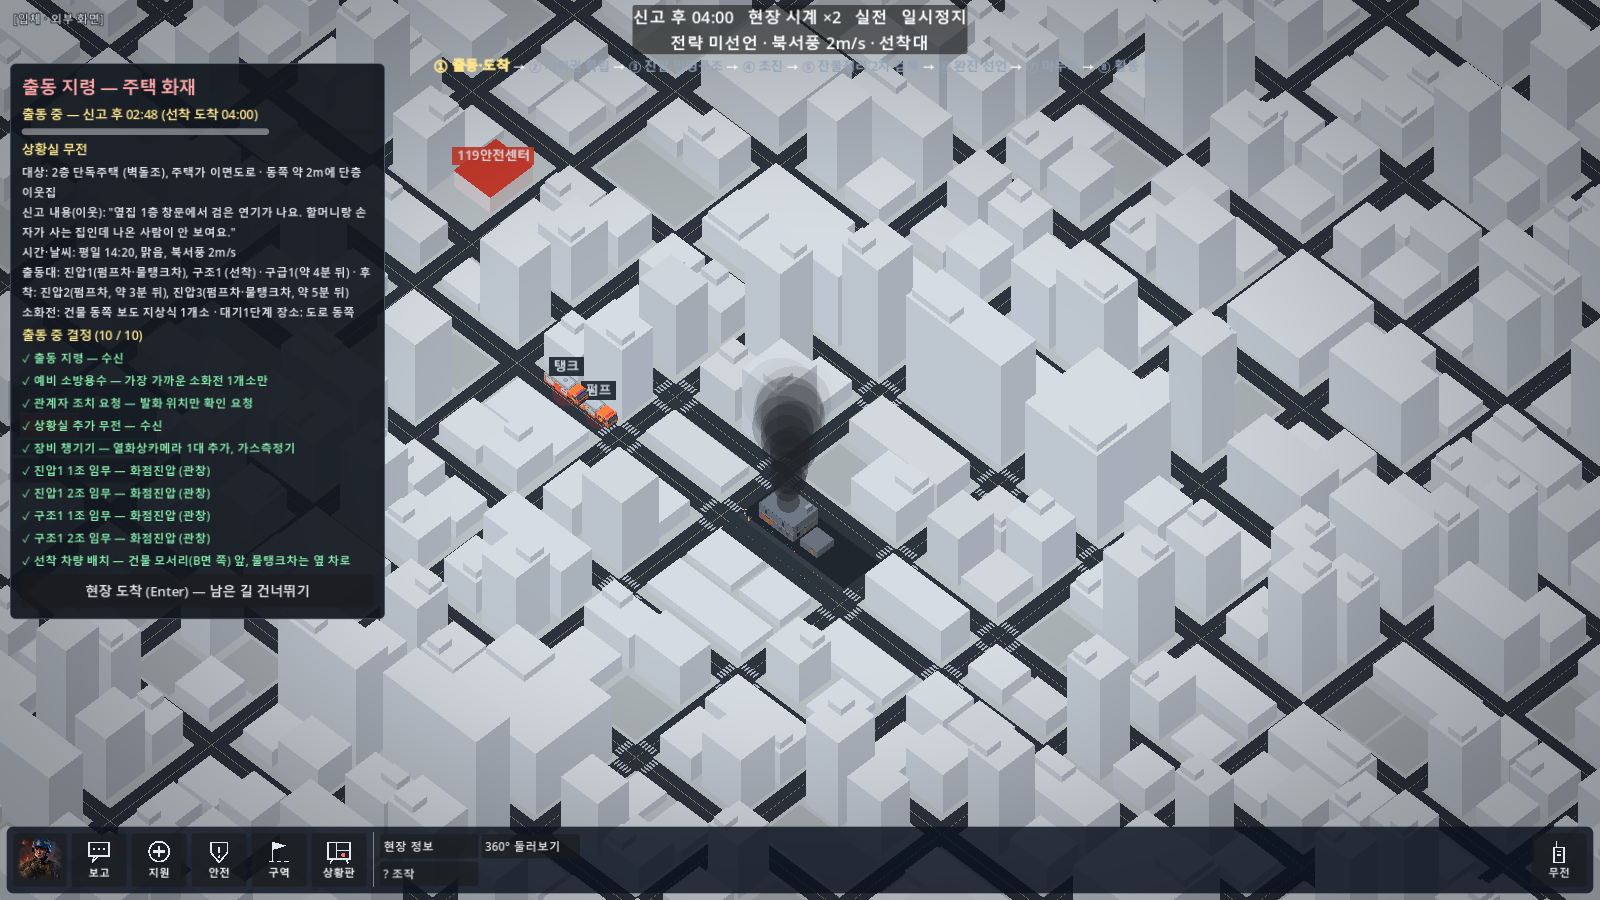
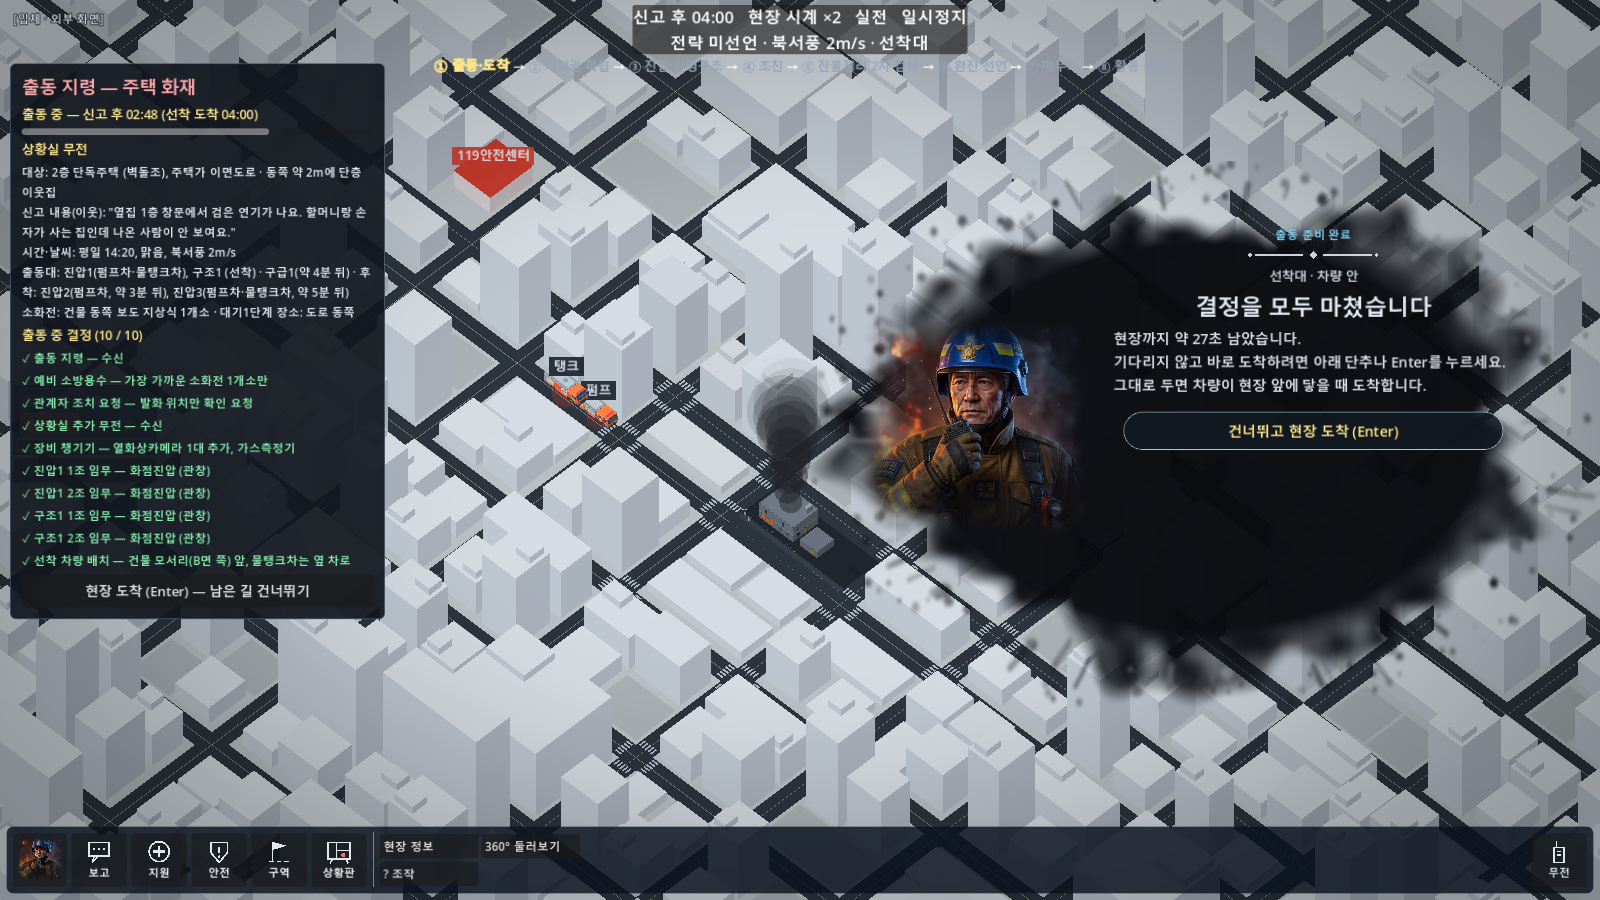
출동: 출동 시간 90초로 되돌림 + 결정을 마치면 '건너뛰고 현장 도착' 안내 장면

Changed region(s): [[0.5, 0.1867, 1.0, 0.7778]]

diff --git a/docs/progress.md b/docs/progress.md
@@ -91,3 +91,4 @@
 | 2026-11-14 | 출동 장면 1단계: 화면을 꽉 채우는 도시 | data/ui/city.json(새), scripts/ui/city_plan.gd(새 — 도로망·필지·층수 제한·안전센터·출동 경로), scripts/ui/city_mass_view.gd(다시 씀 — 사각형 묶음, 밤 창문·가로등, 차량 아이콘이 경로를 따라옴), scripts/world.gd(원경 배율·밤 정도 전달·도착 확대를 배율 지수로 1.6초·출동 중 카메라 고정, **원경 적용 순서 버그 고침**), scripts/ui/rts_camera.gd(locked), tests/test_city.gd(새, 7개)·ui_smoke.gd(4항목)·_shot_dispatch.gd·_perf_city.gd(새, 점검 도구), docs/ref/city_overview_day.png·city_overview_night.png·city_near_day.png·city_near_night.png | test_city 7개, 화면 점검 6종(ui_smoke 147항목·ui_split 39·ui_cutaway 44·ui_command_card 54·ui_radio 25·ui_end_menu) 통과. 전체 테스트는 돌리지 않음. **고친 기존 버그:** 원경으로 바꾸는 코드가 출동 지령 창을 띄우기 전에 '창이 떠 있는가'를 확인해, 실제 게임에서는 출동 단계 원경이 한 번도 적용되지 않았다(캡처 도구만 직접 배율을 넣어 보여 줌). 남음: ① 출동 차량은 아직 색 원 아이콘(2단계에서 소방차 그림 + 연기 기둥) ② 출동 지령 창이 화면 가운데를 가린다(3단계에서 질문 장면으로) ③ 안전센터가 화면 맨 위 단계 표시줄 가까이에 있다 ④ 현장 필지(어두운 마당)가 밝은 도시 안에서 어두운 네모로 보인다 ⑤ 가로등 빛 번짐이 네모 모양 ⑥ 현장 앞 도로 중앙선은 점선, 도시 길은 실선 ⑦ 후착대는 도시에 보이지 않는다(도착 뒤 지도 가장자리에서 들어오는 것은 그대로) ⑧ 이 PC(UHD 630)에서 15층 아파트 내부 화면은 18~21fps — 도시와 무관한 기존 부담(도시 켬·끔 차이 없음). 다음: 2단계 출동 주행 |
 | 2026-11-14 | 출동 장면 2단계: 출동 주행 | scripts/ui/city_mass_view.gd(truck_cell·truck_distance·_draw_overlay·_draw_plume·_label, 출동 중에만 다시 그림), scripts/ui/city_plan.gd(site_center, 원경 중심 옮김), scripts/world.gd(원경 카메라 자리, 도착 확대 때 화면 가운데도 이동), data/ui/city.json(overview_offset_cells·station_name·truck_*·plume_*·색), tests/test_city.gd·_shot_dispatch.gd, docs/ref/city_overview_day.png·city_overview_night.png·city_dispatch_start.png·city_dispatch_arrive.png | test_city 7개, 화면 점검 4종(ui_smoke 147항목·ui_split 39·ui_cutaway 44·ui_radio 25) 통과. 전체 테스트는 돌리지 않음. 도시 켬·끔 프레임 시간 차이 없음(UHD 630). 남음: ① 출동 지령 창이 아직 화면 가운데를 가려 달리는 차가 잘 안 보인다(3단계에서 질문 장면으로 바꾸고 화면 오른쪽에) ② '현장 도착'을 90초 전에 누르면 달리던 차가 사라지고 현장 가장자리에서 다시 들어온다(3단계에서 정리) ③ 소방차는 길 가운데로 달린다(차로 구분 없음), 모퉁이에서 방향이 한 번에 바뀐다 ④ 연기 기둥은 화재 크기와 무관하게 같은 크기 ⑤ 소리 없음(음향 작업 때) ⑥ 하차 동작은 4단계. 다음: 3단계 출동 중 질문 장면 |
 | 2026-11-14 | 출동 장면 3단계: 출동 중 장면 (+ 출동 시간 90 → 180초) | scripts/ui/dispatch_ui.gd(새 — 장면 목록·오른쪽 장면·왼쪽 출동 준비판·시간·건너뛰기·result), data/ui/dispatch.json(새 — 순서·크기·글·조별 임무 보기), scripts/ui/command_ui.gd(출동 지령 창·장비 체크·임무 고르기 코드를 걷어내고 DispatchUi로, _arrive가 result를 명령으로), scripts/command/card_system.gd(dispatch_specs·dispatch_answers — 출동 중 답한 카드는 도착 뒤 묻지 않고 적용, 정하지 않으면 unprepared), scripts/command/command_order.gd(dispatch_answers), scripts/evaluation/evaluator.gd·sim_event_log.gd('출동 중 정하지 않음'), scripts/ui/card_ui.gd(pill·draw_ornament를 함께 쓰게), scripts/ui/hud.gd(튜토리얼 안내판 아래로), data/command/phase_params.json(dispatch_real_s 180), data/art.json(portraits '출동'), data/tutorial/basics.json(1단계 글), tests/test_dispatch_scenes.gd(새, 7개)·ui_smoke.gd(출동 13항목)·_shot_dispatch.gd, docs/ref/dispatch_scene_*.png 6장 | test_dispatch_scenes 7개 + 관련 15개 파일(dispatch_prep·cards·cards_r4·city·placement·time_axis·art·tutorial·evaluation·debrief_ext·replay·numbers·realism·highrise·hints), 화면 점검 6종(ui_smoke 156항목·ui_split 39·ui_cutaway 44·ui_command_card 54·ui_radio 25·ui_end_menu 22) 통과. 전체 테스트는 돌리지 않음. 남음: ① 차량 안에서 무전하는 그림은 지휘관 일러스트 임시(사용자가 줄 예정 — data/art.json portraits '출동' 경로만 바꾸면 됨) ② 위 표시줄은 출동 중에도 '신고 후 04:00'(도착 시각)을 보인다 — 준비판의 시각과 다르다 ③ 조별 임무 보기는 출동대 종류와 상관없이 같다(구조대에도 화점진압) ④ ui_radio의 실전 부분은 PC가 바쁠 때 가끔 실패(실제 시간 진행과 수동 진행이 겹쳐 진입 요청이 나오기 전에 불이 꺼짐 — 이번 변경과 무관) ⑤ 소리 없음(나중에 음향 작업 때) ⑥ 4단계(차량 진입을 도시의 차와 이어 보이게, 하차 동작)는 다음 |
+| 2026-11-15 | 출동 시간 180 → 90초 + 마무리 안내 장면('건너뛰고 현장 도착') | data/command/phase_params.json(dispatch_real_s 90), data/ui/dispatch.json(texts done_*), scripts/ui/dispatch_ui.gd(closing_shown·_closing_step·_closing_text, choose·_refresh·_fill), data/tutorial/basics.json(1단계 글), tests/test_dispatch_scenes.gd(test_closing_scene_guides_skip)·ui_smoke.gd(1항목)·_shot_dispatch.gd, docs/ref/dispatch_scene_done.png | 헤드리스 18개(test_dispatch_scenes 8·test_dispatch_prep 4·test_time_axis 3·test_tutorial 3) 통과. 전체 테스트는 돌리지 않음. 남음: ① 실전·악조건에서 장면 10개를 90초에 마치기 빠듯할 수 있다(사용자 확인 필요) ② 위 표시줄의 '신고 후 04:00'은 그대로 |

diff --git a/docs/decisions.md b/docs/decisions.md
@@ -175,3 +175,4 @@
 | 2026-11-14 | 출동 | 출동 주행 (2단계) | ① 색 원 아이콘 대신 **구운 소방차 그림**(달리는 동작, 1.5배)이 안전센터에서 길을 따라 달린다. 뒤차는 3m 간격으로 따라 나온다. 차 둘레에 번쩍이는 빨간 빛 + 이름표(화면에서 늘 같은 크기) ② 진행률 1에서 맨 앞차는 **현장 지도 서쪽 끝 바로 밖**에 선다 — 도착하면 시뮬레이션 차량이 같은 자리에서 이어 들어온다 ③ **대상 건물 위 연기 기둥**(60m, 바람 부는 쪽으로 기움, 밤에는 밑동에 불빛) ④ 안전센터 위에 이름표 '119안전센터' ⑤ **원경의 화면 가운데를 현장에서 서북쪽으로 22m 옮김** — 안전센터와 경로가 화면 안쪽으로 들어오고 현장은 가운데에서 조금 아래. 도착 확대 때 화면 가운데도 현장으로 미끄러진다 ⑥ 이름표는 짙은 바탕에 흰 글자(밤 화면 분위기에서도 읽히게) | 1단계 계획대로. 연기 기둥은 화재 엔진 상태와 무관한 연출(출동 중에만) — 지휘관이 멀리서 직접 보는 것이라 '보고된 정보만' 원칙과 부딪히지 않는다. 소리(사이렌)는 음향 작업 때 |
 | 2026-11-14 | 출동 | 출동 중 장면 (3단계) — 출동 지령 창 하나를 장면 여러 개로 | ① **한 번에 한 장면**: 출동 지령 → 상황실 요청 카드 2장(관계자 조치 요청·예비 소방용수) → 상황실 추가 무전 → 장비 챙기기 → 조마다 도착 후 임무 → 선착 차량 배치. 주택 시나리오는 10개 ② **장비는 장면 안의 체크 목록**(3개까지 고르고 '이대로 챙긴다'), **임무는 조마다 한 장면**(그 조의 조장이 묻는다), **차량 배치는 고르면 그 자리의 장단점이 보이고 확인** ③ **장면은 화면 오른쪽**(먹물 바탕 + 그림 + 둥근 단추, 폭 950), **왼쪽에 출동 준비판**(받은 상황실 무전·신고 후 시각·결정 목록과 고른 것·'현장 도착' 단추) — 가운데의 출동 경로와 현장은 가리지 않는다 ④ 지령 줄은 시간이 아니라 **장면 순서로** 온다(첫 장면 2줄, 나머지는 '추가 무전') — 정보가 결정보다 먼저 ⑤ 그림은 **지휘관 일러스트를 임시로**(data/art.json portraits '출동' — 차량 안 그림을 받으면 경로만 바꾼다), 조별 임무 장면은 그 출동대 종류 그림 ⑥ 카드 보기는 섞어서 보여 준다(같은 시나리오는 늘 같은 순서) ⑦ 숫자키 = 고르기, Enter = 확인 | 사용자 결정(추천 승인: 장비는 체크 목록, 임무는 조마다). 프로스트펑크의 사건 창처럼 한 번에 한 가지. 장비·임무는 셋 중 하나 고르기로 줄이면 무엇을 챙기고 누구에게 시킬지 스스로 생각하는 훈련이 줄어든다. 지령 줄을 시간으로 내보내면 빨리 고르는 사람이 정보 없이 장비를 고르게 된다 |
 | 2026-11-14 | 출동 | 출동 시간과 도착 (기획안 4-4·5-8의 '실제 약 90초'를 대체) | ① 출동 단계 **실제 180초**(신고 후 4분, 약 1.3배 — data/command/phase_params.json dispatch_real_s) ② **훈련**: 차가 현장 앞에 닿아도 결정을 마칠 때까지 기다린다 ③ **실전·악조건**: 180초가 지나면 그대로 도착 — **정하지 않은 것은 준비하지 않은 것**(장비 없음, 임무 없음, 배치는 기본 자리, 카드는 '출동 중 정하지 않음' = 미응답) ④ 결정을 모두 마치면 **'현장 도착(Enter)'** 으로 남은 길을 건너뛴다 — 차가 사라지지 않고 2.5초에 빨리 달려 도착. 결정은 건너뛸 수 없다 ⑤ 차가 현장 앞에 닿으면 누르지 않아도 도착한다 ⑥ 출동 단계 카드 2장은 출동 중에 답하면 **도착한 뒤에 다시 묻지 않고** 그때 답대로 적용·기록한다(CommandOrder dispatch_answers) | 사용자 결정("출동이 너무 빨리 이루어진다"). 장면 8~10개를 읽고 고르려면 90초로는 모자란다. 훈련/실전의 차이는 무전 장면과 같은 원칙(훈련은 기다려 주고 실전은 시간이 멈추지 않는다). 건너뛸 때 차가 사라졌다 다시 나오던 문제도 같이 없앰 |
+| 2026-11-15 | 출동 | 출동 시간 90초로 되돌림 + 마무리 안내 장면 (11-14 '출동 시간과 도착'의 ①·④를 대체) | ① 출동 단계 **실제 90초** (data/command/phase_params.json dispatch_real_s) ② 마지막 결정을 마치면 오른쪽 장면 자리에 **마무리 안내 장면** — "결정을 모두 마쳤습니다 · 현장까지 약 N초" + 단추 **'건너뛰고 현장 도착 (Enter)'** (숫자키 1·Enter·왼쪽 준비판 단추도 같음). 누르면 남은 길을 2.5초에 달려 도착, 그대로 두면 차가 닿을 때 도착 ③ 안내 장면은 결정이 아니다(결정 목록·개수에 넣지 않음). 차가 이미 현장 앞이면(훈련에서 늦게 마침) 안내 없이 바로 도착 ④ 훈련은 기다리고 실전·악조건은 시간이 되면 도착하는 것은 그대로 | 사용자 결정("소방차가 도착할 때까지 계속 쳐다보는 건 지루하고 이상하다"). 180초는 결정을 마친 뒤 남는 시간이 길었고, 건너뛰기 단추가 왼쪽 준비판 맨 아래에 있어 눈에 띄지 않았다. **남는 걱정:** 실전·악조건은 장면 10개를 90초 안에(장면당 8초쯤) 마쳐야 한다 — 못 정한 것은 준비 안 한 것이 된다 |
